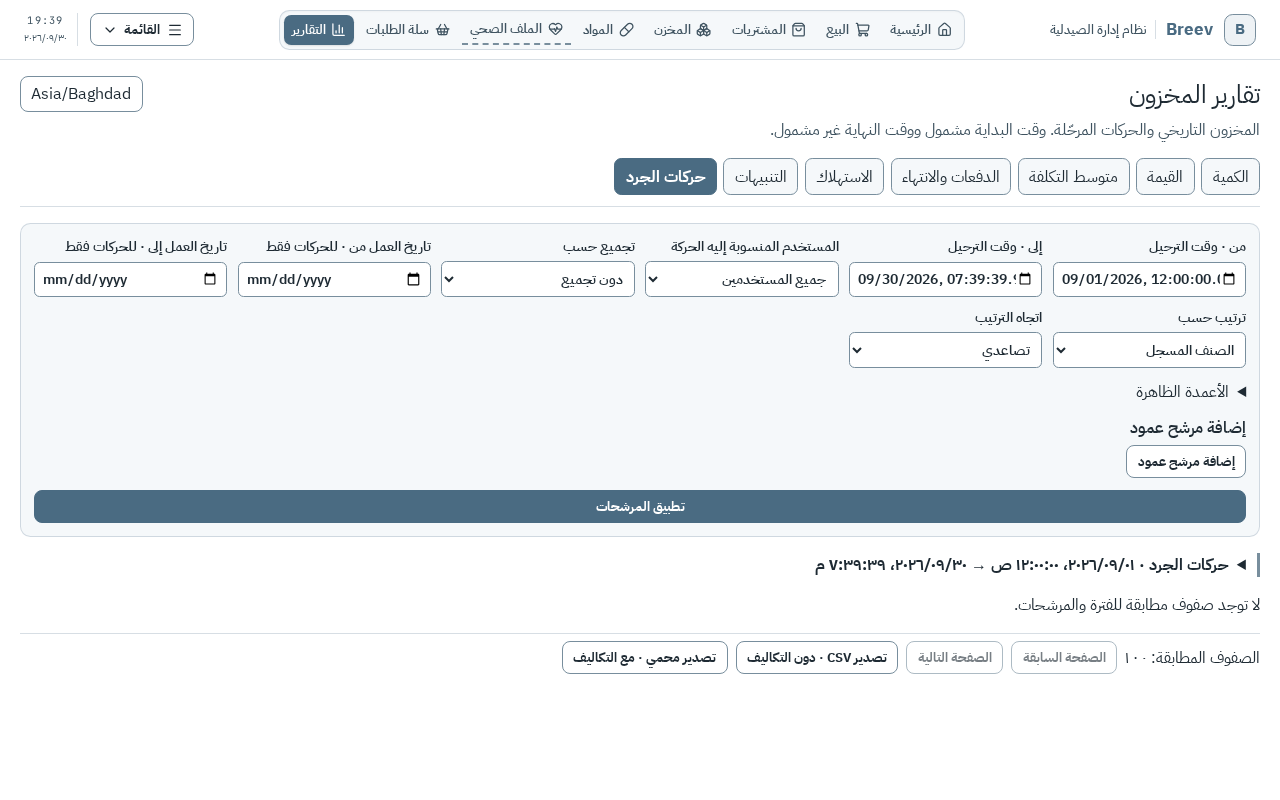
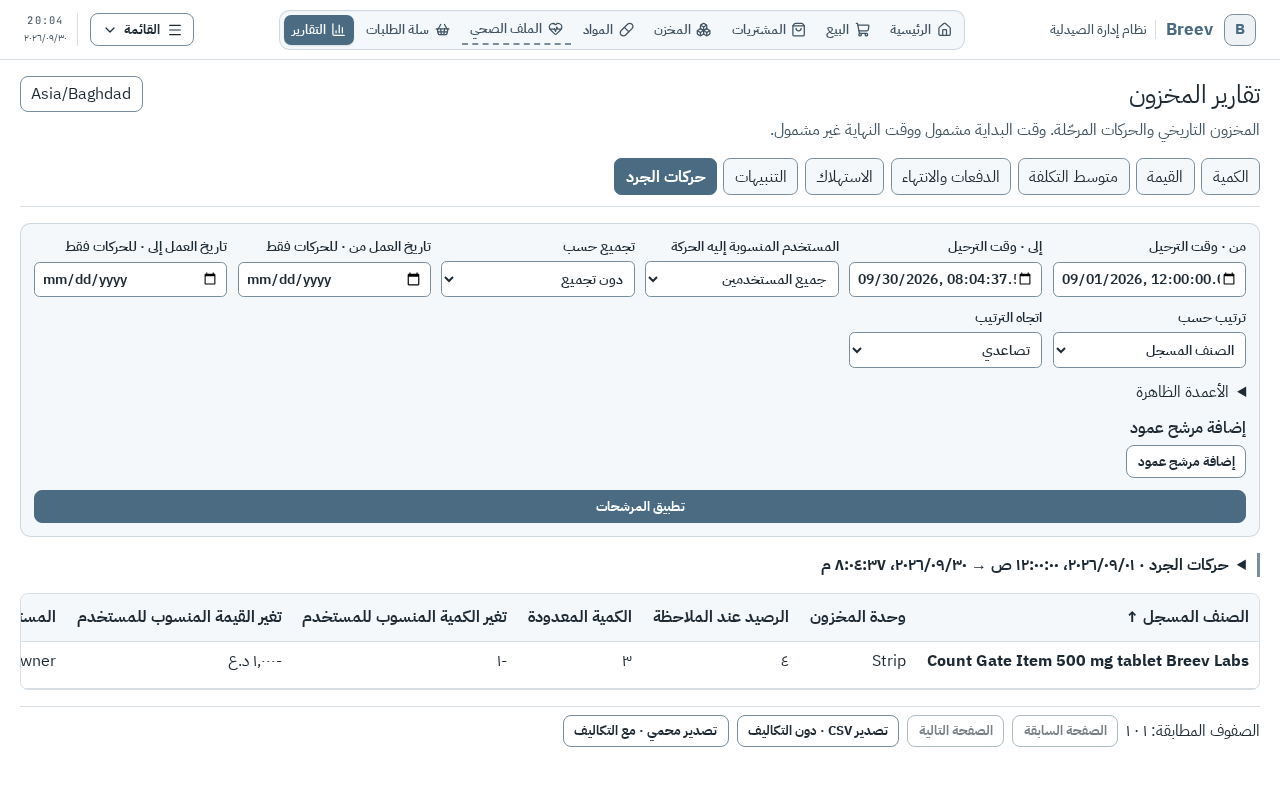
test(reports): prove applied count source review

diff --git a/apps/desktop/test/browser/inventory.browser.test.ts b/apps/desktop/test/browser/inventory.browser.test.ts
@@ -923,6 +923,7 @@ test.describe.serial("read-only inventory review", () => {
 
   test("blocks count completion until the pending variance is applied", async ({
     page,
+    browser,
   }) => {
     await login(OWNER_USERNAME, OWNER_PASSWORD);
     const stocked = await stockNamedItem(
@@ -974,6 +975,47 @@ test.describe.serial("read-only inventory review", () => {
     await expect(page.locator("#count-complete-blocked")).toHaveCount(0);
     await complete.click();
     await expect(complete).toHaveText("Session completed.");
+    for (const locale of ["ar", "en"] as const) {
+      for (const theme of ["light", "dark"] as const) {
+        const context = await browser.newContext({
+          viewport: { height: 800, width: 1280 },
+        });
+        const reportPage = await context.newPage();
+        await installDesktopFake(reportPage, renderer.origin, locale, theme);
+        await reportPage.goto(
+          `${renderer.origin}#/reports/inventory/stocktake-movements`,
+        );
+        const reportRow = reportPage
+          .locator(".report-table tbody tr")
+          .filter({ hasText: "Count Gate Item" });
+        await expect(reportRow).toHaveCount(1);
+        expect(
+          (await new AxeBuilder({ page: reportPage }).analyze()).violations,
+        ).toEqual([]);
+        await reportPage.screenshot({
+          animations: "disabled",
+          fullPage: true,
+          path: evidencePath(
+            "issue-64",
+            "after",
+            `stocktake-movements-${locale}-${theme}.png`,
+          ),
+        });
+        const source = reportRow.locator("td").last().getByRole("button");
+        await source.click();
+        const review = reportPage.locator(".count-session-review-dialog");
+        await expect(review).toBeVisible();
+        await expect(review.locator("tbody")).toContainText("Count Gate Item");
+        await expect(review.locator("input, textarea, select")).toHaveCount(0);
+        expect(
+          (await new AxeBuilder({ page: reportPage }).analyze()).violations,
+        ).toEqual([]);
+        await review.locator("header button").click();
+        await expect(source).toBeFocused();
+        await expect(reportRow).toHaveCount(1);
+        await context.close();
+      }
+    }
   });
 });
 
